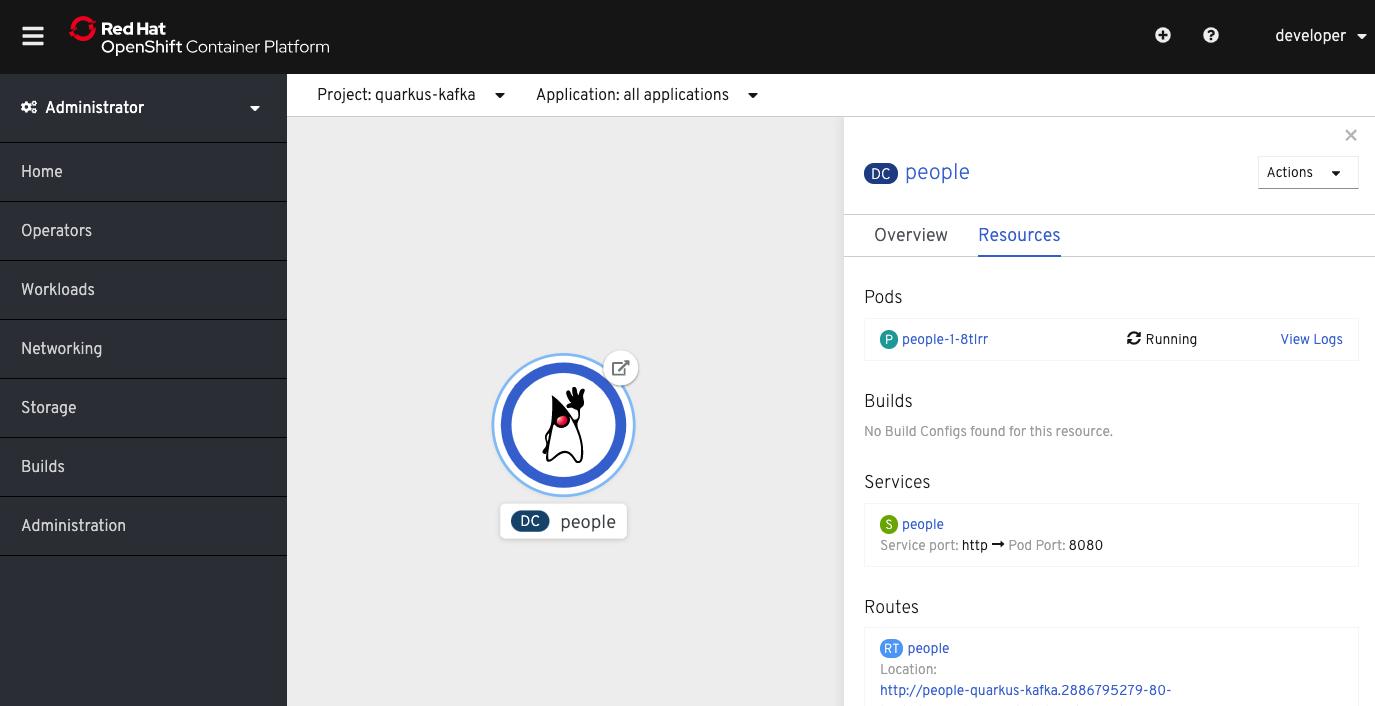
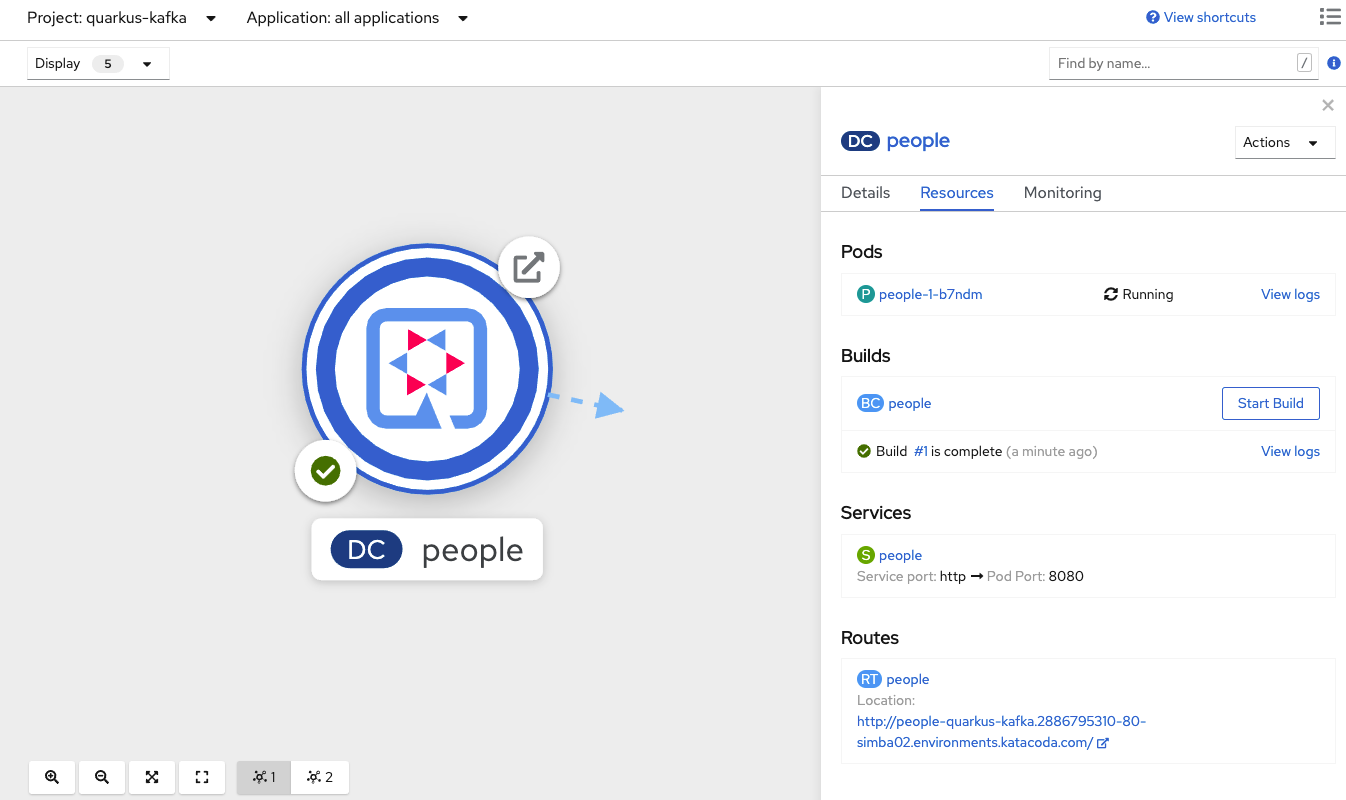
Update Quarkus Kafka scenario to use latest Quarkus, Kafka (#1059)
* updates for kafka to latest quarkus

* minor improvements

diff --git a/middleware/middleware-quarkus/kafka/01-add-extension.md b/middleware/middleware-quarkus/kafka/01-add-extension.md
@@ -4,6 +4,22 @@ Let's refresh the code we'll be using. Run the following command to clone the sa
 
 `cd /root/projects && rm -rf rhoar-getting-started && git clone https://github.com/openshift-katacoda/rhoar-getting-started`{{execute}}
 
+# Inspect Java runtime
+
+An appropriate Java runtime has been installed for you. Ensure you can use it by running this command:
+
+`$JAVA_HOME/bin/java --version`{{execute}}
+
+The command should report the version in use, for example (the versions and dates may be slightly different than the below example):
+
+```console
+openjdk 11.0.10 2021-01-19
+OpenJDK Runtime Environment AdoptOpenJDK (build 11.0.10+9)
+OpenJDK 64-Bit Server VM AdoptOpenJDK (build 11.0.10+9, mixed mode)
+```
+
+If the command fails, wait a few moments and try again (it is installed in a background process and make take a few moments depending on system load).
+
 # The Project
 
 You start with a basic Maven-based application with the usual `pom.xml` entries for a Quarkus app.
@@ -22,7 +38,7 @@ the browser. It looks like:
 Like other exercises, we’ll need another extension to integrate Quarkus with Kafka. Install it by clicking on the following command:
 
 `cd /root/projects/rhoar-getting-started/quarkus/kafka &&
-  mvn quarkus:add-extension -Dextensions="kafka"`{{execute}}
+  mvn quarkus:add-extension -Dextensions="smallrye-reactive-messaging-kafka"`{{execute}}
 
 > The first time you add the extension, new dependencies may be downloaded via maven. This should only happen once, after that things will go even faster.
 
@@ -40,14 +56,14 @@ This will add the necessary entries in your `pom.xml`{{open}} to bring in the Ka
 
 With our extension installed, let's begin Live Coding. Click on the following command to start the app in Live Coding mode:
 
-```mvn compile quarkus:dev```{{execute}}
+```mvn compile quarkus:dev -Dquarkus.http.host=0.0.0.0```{{execute}}
 
 You should see:
 
 ```console
-people 1.0-SNAPSHOT (powered by Quarkus 1.3.2.Final) started in 1.598s. Listening on: http://0.0.0.0:8080
+people 1.0-SNAPSHOT on JVM (powered by Quarkus 1.12.2.Final) started in 1.806s. Listening on: http://0.0.0.0:8080
 Profile dev activated. Live Coding activated.
-Installed features: [cdi, resteasy, smallrye-context-propagation, smallrye-reactive-messaging, smallrye-reactive-messaging-kafka, smallrye-reactive-streams-operators]
+Installed features: [cdi, mutiny, resteasy, smallrye-context-propagation, smallrye-reactive-messaging, smallrye-reactive-messaging-kafka, vertx]
 ```
 
 > The first time you build the app, new dependencies may be downloaded via maven. This should only happen once, after that things will go even faster.
@@ -66,4 +82,6 @@ you should see
 ```console
 hello
 ```
-Leave the app running, and let's start adding to it.
+## Cleanup
+
+In the terminal, press `CTRL-C` to stop our running app.

diff --git a/middleware/middleware-quarkus/kafka/06-deploy-kafka.md b/middleware/middleware-quarkus/kafka/06-deploy-kafka.md
@@ -25,13 +25,15 @@ To deploy Kafka, we'll use the _Strimzi_ Operator. Strimzi is an open source pro
 
 First, click this command to deploy the Operator to our new `kafka` namespace:
 
-`curl -s -L https://github.com/strimzi/strimzi-kafka-operator/releases/download/0.17.0/strimzi-cluster-operator-0.17.0.yaml | sed 's/namespace: .*/namespace: kafka/' | oc apply -f -`{{execute T2}}
+`oc create -f 'https://strimzi.io/install/latest?namespace=kafka' -n kafka`{{execute T2}}
 
 Wait for the Operator to be deployed by running this command:
 
 `oc rollout status -w deployment/strimzi-cluster-operator`{{execute T2}}
 
-You should see:
+> If this command seems to be taking a long time, just CTRL-C it and run it again. It make take time to install Kafka depending on system load.
+
+You should eventually see:
 
 ```console
 deployment "strimzi-cluster-operator" successfully rolled out
@@ -84,15 +86,15 @@ Look at the list of pods being spun up and look for the Kafka pods for our clust
 You should see something like:
 
 ``` none
-names-cluster-entity-operator-7fb67dc54d-pxw6t   3/3     Running   0          20s
-names-cluster-kafka-0                            2/2     Running   0          48s
-names-cluster-kafka-1                            2/2     Running   0          48s
-names-cluster-kafka-2                            2/2     Running   0          48s
-names-cluster-zookeeper-0                        2/2     Running   0          1m
-names-cluster-zookeeper-1                        2/2     Running   0          1m
-names-cluster-zookeeper-2                        2/2     Running   0          1m
+names-cluster-entity-operator-6cbfffc465-jthb7   3/3     Running   0          45s
+names-cluster-kafka-0                            1/1     Running   0          99s
+names-cluster-kafka-1                            1/1     Running   0          99s
+names-cluster-kafka-2                            1/1     Running   0          99s
+names-cluster-zookeeper-0                        1/1     Running   0          2m31s
+names-cluster-zookeeper-1                        1/1     Running   0          2m31s
+names-cluster-zookeeper-2                        1/1     Running   0          2m31s
 ```
-If the pods are still spinning up (not all in the _Running_ state), keep clicking the above command until you see 3 _kafka_ pods, 3 _zookeeper_ pods, and the single _entity operator_ pod.
+If the pods are still spinning up (not all in the _Running_ state with `1/1` or `3/3` containers running), keep clicking the above command until you see 3 _kafka_ pods, 3 _zookeeper_ pods, and the single _entity operator_ pod.
 
 It will take around 2 minutes to get all the Kafka pods up and running.
 

diff --git a/middleware/middleware-quarkus/kafka/07-deploy-and-test.md b/middleware/middleware-quarkus/kafka/07-deploy-and-test.md
@@ -15,7 +15,7 @@ quarkus.container-image.build=true
 quarkus.kubernetes.deploy=true
 quarkus.kubernetes.deployment-target=openshift
 quarkus.openshift.expose=true
-quarkus.openshift.labels.app.openshift.io/runtime=java
+quarkus.openshift.labels.app.openshift.io/runtime=quarkus
 </pre>
 
 For more details of the above options:
@@ -25,7 +25,7 @@ For more details of the above options:
 * `quarkus.kubernetes.deploy=true` - Instructs the extension to deploy to OpenShift after the container image is built
 * `quarkus.kubernetes.deployment-target=openshift` - Instructs the extension to generate and create the OpenShift resources (like `DeploymentConfig`s and `Service`s) after building the container
 * `quarkus.openshift.expose=true` - Instructs the extension to generate an OpenShift `Route`.
-* `quarkus.openshift.labels.app.openshift.io/runtime=java` - Adds a nice-looking icon to the app when viewing the OpenShift Developer Toplogy
+* `quarkus.openshift.labels.app.openshift.io/runtime=quarkus` - Adds a nice-looking icon to the app when viewing the OpenShift Developer Toplogy
 
 ## Login to OpenShift
 
@@ -62,10 +62,6 @@ Finally, make sure it's actually done rolling out:
 `oc rollout status -w dc/people`{{execute T2}}
 
 Wait for that command to report `replication controller "people-1" successfully rolled out` before continuing.
-
-You can also add a Java icon to the app if you don't see it in the OpenShift Developer Toplogy:
-
-`oc label dc/people app.openshift.io/runtime=java --overwrite`{{execute T2}}
 
 You can see the app deployed in the [OpenShift Developer Toplogy](https://console-openshift-console-[[HOST_SUBDOMAIN]]-443-[[KATACODA_HOST]].environments.katacoda.com/topology/ns/quarkus-kafka):
 

diff --git a/middleware/middleware-quarkus/kafka/05-configure-app.md b/middleware/middleware-quarkus/kafka/05-configure-app.md
@@ -32,6 +32,11 @@ configuration](https://kafka.apache.org/documentation/#producerconfigs) and [Con
 configuration](https://kafka.apache.org/documentation/#consumerconfigs) section from the Kafka documentation.
 
 > **Note**
-> 
+>
 > What about `my-data-stream`? This is an in-memory stream, not connected to a message broker.
 
+# Compilation Test
+
+To make sure you've got a compilable app and code is in its proper place, let's test the build. Run this command to compile and package the app:
+
+`mvn clean package`{{execute}}

diff --git a/middleware/middleware-quarkus/kafka/04-create-resource.md b/middleware/middleware-quarkus/kafka/04-create-resource.md
@@ -9,7 +9,7 @@ Next, click **Copy to Editor** to add the following code to this file:
 <pre class="file" data-filename="./src/main/java/org/acme/people/stream/NameResource.java" data-target="replace">
 package org.acme.people.stream;
 
-import io.smallrye.reactive.messaging.annotations.Channel;
+import org.eclipse.microprofile.reactive.messaging.Channel;
 
 import org.reactivestreams.Publisher;
 import javax.inject.Inject;
